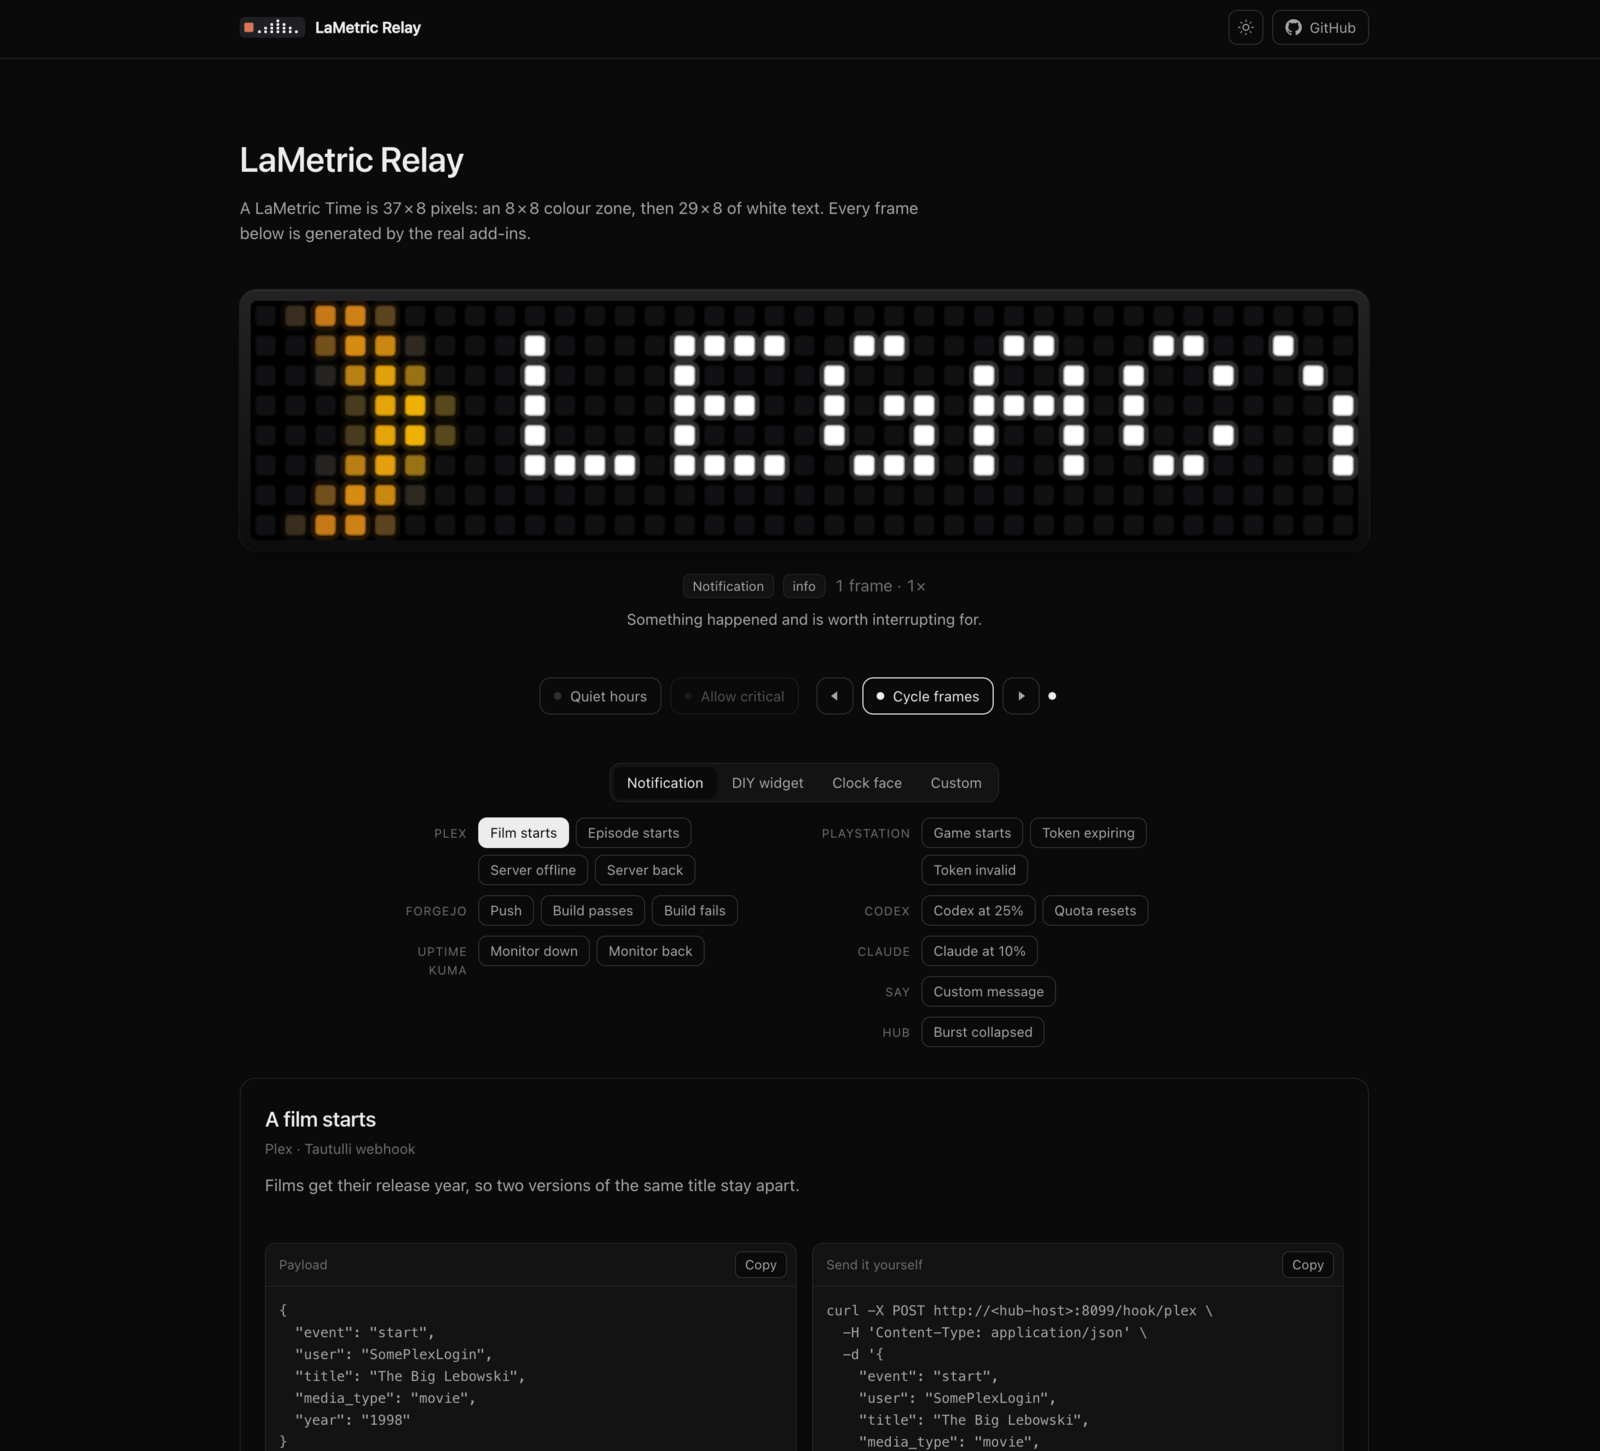
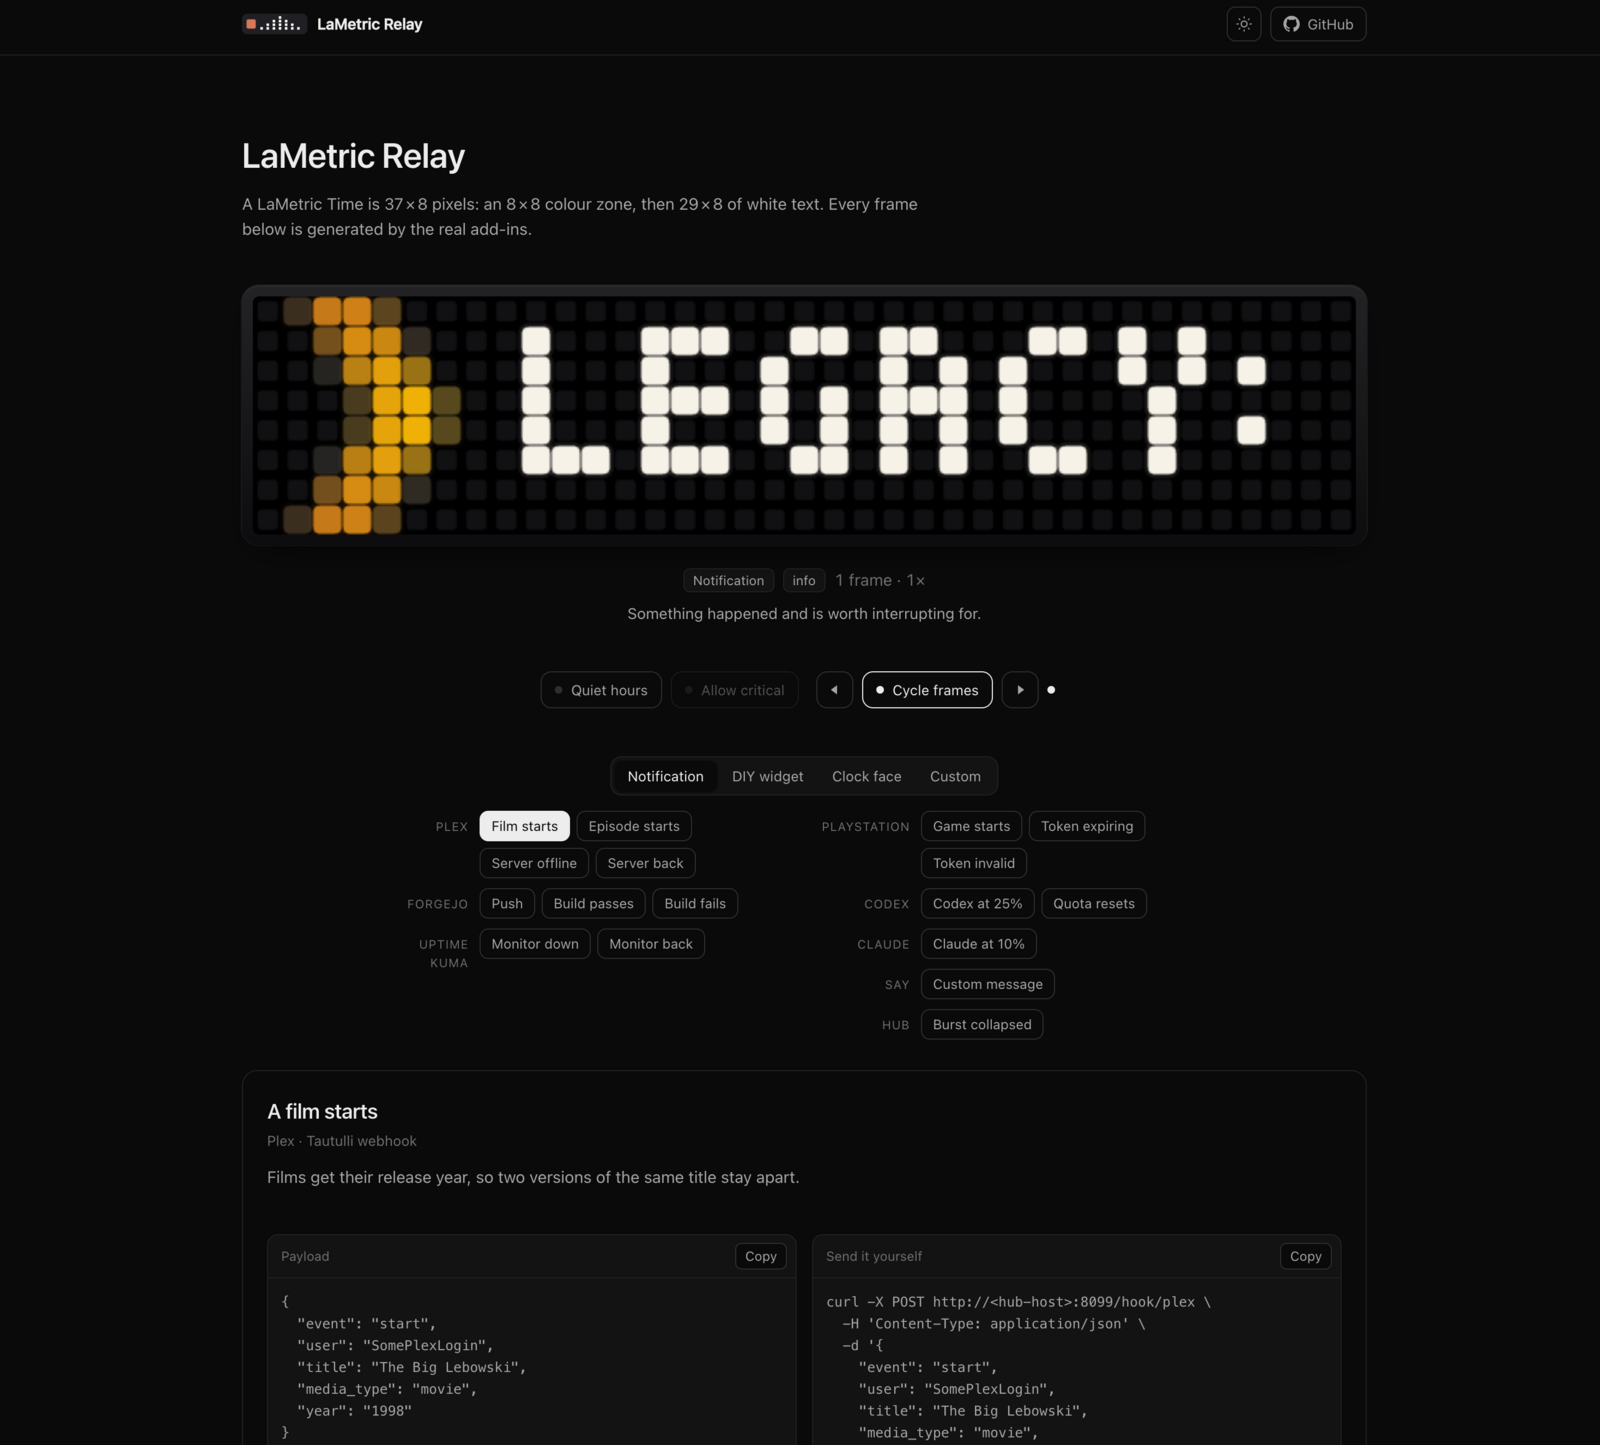
docs: point the README at the custom domain, and a fresh preview shot
The preview site answers on lametric.nichtlegacy.com, so the README and the
contributing guide link there rather than at the github.io address. The hero is
a link now as well: it is a recording of that page, so clicking it should open
it.

The screenshot beside it was taken before the display was measured and still
showed the old font, so it is replaced by one of the page as it renders now.

diff --git a/README.md b/README.md
@@ -9,9 +9,9 @@
 <img alt="Docker ready" src="https://img.shields.io/badge/Docker-ready-2496ED?logo=docker&logoColor=white">
 <a href="LICENSE"><img alt="MIT License" src="https://img.shields.io/badge/License-MIT-22C55E"></a>
 
-[Live preview](https://nichtlegacy.github.io/lametric-relay/) · [Quick start](#quick-start) · [Add-ins](#add-ins) · [Documentation](#documentation)
+[Live preview](https://lametric.nichtlegacy.com/) · [Quick start](#quick-start) · [Add-ins](#add-ins) · [Documentation](#documentation)
 
-<img src="docs/assets/hero.gif" width="820" alt="A simulated LaMetric Time cycling through a Plex episode, a failed Forgejo build, an Uptime Kuma monitor going down, a PlayStation game start, a Codex quota bar and a Claude quota warning">
+<a href="https://lametric.nichtlegacy.com/"><img src="docs/assets/hero.gif" width="820" alt="A simulated LaMetric Time cycling through a Plex episode, a failed Forgejo build, an Uptime Kuma monitor going down, a PlayStation game start, a Codex quota bar and a Claude quota warning"></a>
 
 </div>
 
@@ -26,12 +26,12 @@ notifications, live data as DIY widgets and optional ambient context on the cloc
 
 ## Live preview
 
-**[nichtlegacy.github.io/lametric-relay](https://nichtlegacy.github.io/lametric-relay/)**
+**[lametric.nichtlegacy.com](https://lametric.nichtlegacy.com/)**
 is the display in a browser. Pick a source to see what the clock would do, switch quiet
 hours on to see what the hub drops, or compose a frame of your own.
 
 <p align="center">
-  <a href="https://nichtlegacy.github.io/lametric-relay/"><img src="docs/assets/preview-dark.png" width="640" alt="The preview site: a simulated display above a picker of every scenario the add-ins produce"></a>
+  <a href="https://lametric.nichtlegacy.com/"><img src="docs/assets/preview-dark.png" width="640" alt="The preview site: a simulated display above a picker of every scenario the add-ins produce"></a>
 </p>
 
 ## Quick start

diff --git a/CONTRIBUTING.md b/CONTRIBUTING.md
@@ -38,7 +38,7 @@ work from there. A complete contribution is:
       real payload and check the frame that comes out. Include the quiet cases: the
       heartbeat that should produce nothing is as important as the event that should.
 - [ ] **A scenario** in [`scripts/build-preview.py`](scripts/build-preview.py) so your
-      add-in appears on the [preview site](https://nichtlegacy.github.io/lametric-relay/).
+      add-in appears on the [preview site](https://lametric.nichtlegacy.com/).
       Add a line to `GROUPS` for the display name, one to `SHORT` for the chip label,
       and a `dict(...)` to `scenarios()`. The frames come from running your code, so
       there is nothing to keep in sync.
